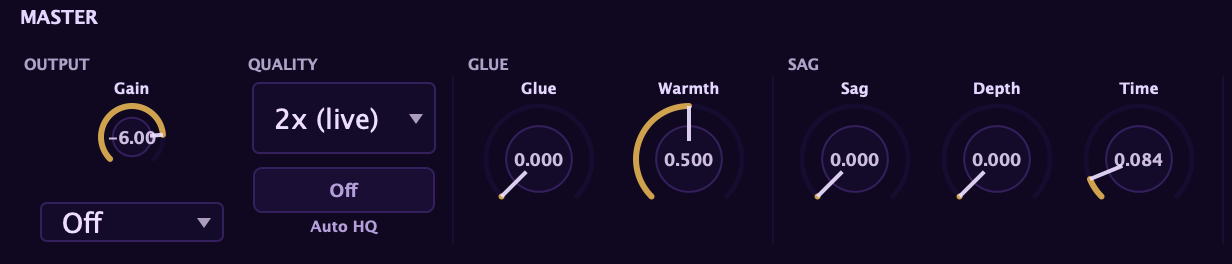
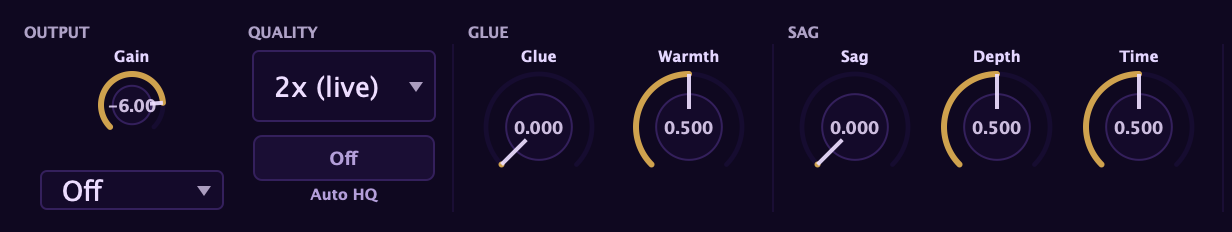
Manual: master band above scope; recapture master (no inner title, tighter)

diff --git a/src/content/docs/interface/overview.md b/src/content/docs/interface/overview.md
@@ -20,8 +20,8 @@ Reading down the window, you move through the instrument:
 - **Sources** — the oscillators, sub, and noise, plus the mixer.
 - **Filter · Modulation · Effects** — the two filters and their routing, the
   modulation system, and the effects rack.
-- **Scope** — the live visualizations.
 - **Master** — the output stage: gain, glue, sag, and metering.
+- **Scope** — the live visualizations, monitoring the master output.
 - **Performance** — voicing and play controls.
 - **Arp · Scale · Step sequencer** — the pattern engine.
 - **Keyboard** — the on-screen keyboard with the pitch and mod wheels.
